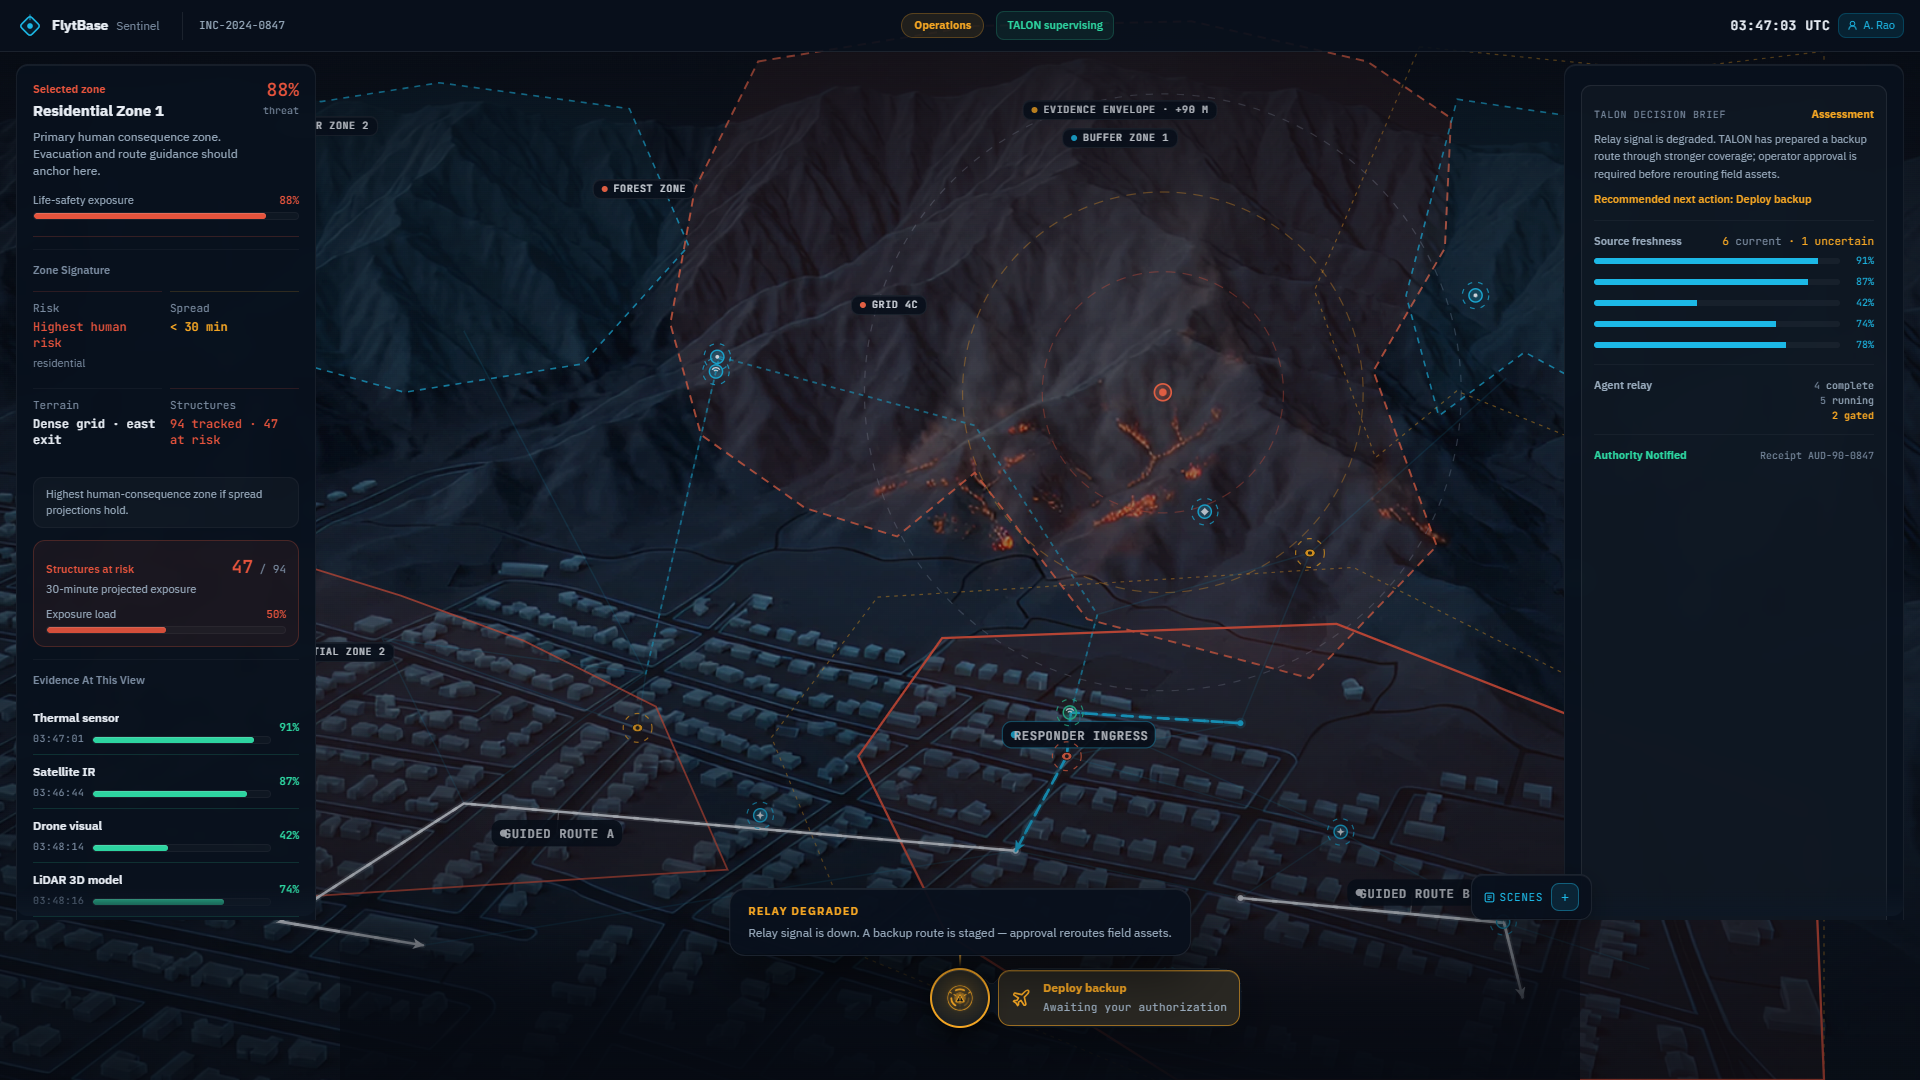
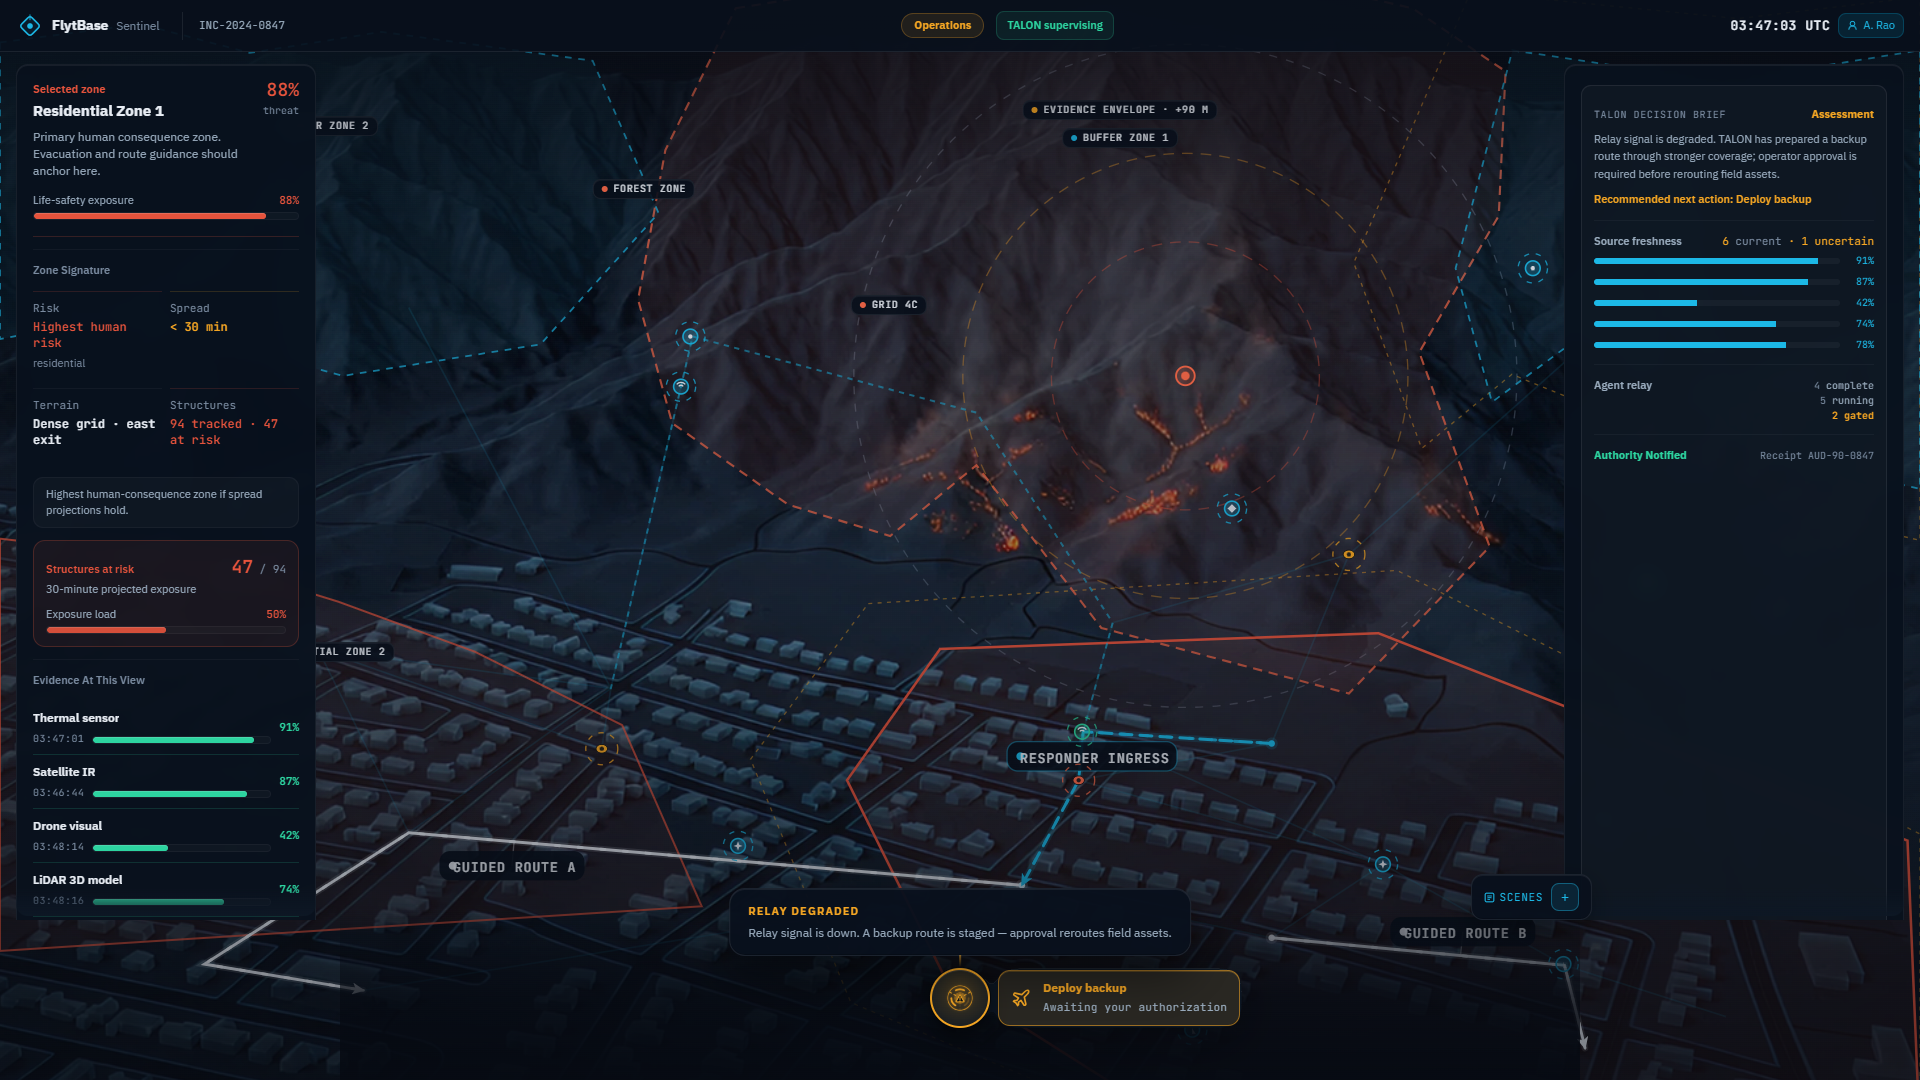
Map alignment fix (A+C): basemap rendered inside the SVG coordinate space (slice law shared by image, overlay, and pointer inverse); verify:map gains 3 alignment regression gates (6->9 checks). Zone/road/label drift at 16:9 eliminated by construction

diff --git a/src/app/map/SpatialMapCanvas.tsx b/src/app/map/SpatialMapCanvas.tsx
@@ -413,14 +413,24 @@ export function SpatialMapCanvas({
     });
   };
 
+  /*
+   * Screen → viewBox units under the SLICE mapping (the same law the backdrop
+   * and overlay SVGs render with): uniform scale = max(w/vw, h/vh), content
+   * centered, overflow cropped. The old stretch assumption silently displaced
+   * every pointer → map conversion whenever the container aspect differed from
+   * 1.6 — drag-to-snap landed in the wrong field.
+   */
   const pointerToNative = (clientX: number, clientY: number): { x: number; y: number } | null => {
     const svg = svgRef.current;
     if (!svg) return null;
     const rect = svg.getBoundingClientRect();
     if (rect.width === 0 || rect.height === 0) return null;
+    const svgScale = Math.max(rect.width / MAP_DISPLAY.width, rect.height / MAP_DISPLAY.height);
+    const svgOffX = (rect.width - MAP_DISPLAY.width * svgScale) / 2;
+    const svgOffY = (rect.height - MAP_DISPLAY.height * svgScale) / 2;
     const screen = {
-      x: ((clientX - rect.left) / rect.width) * MAP_DISPLAY.width,
-      y: ((clientY - rect.top) / rect.height) * MAP_DISPLAY.height,
+      x: (clientX - rect.left - svgOffX) / svgScale,
+      y: (clientY - rect.top - svgOffY) / svgScale,
     };
     const pixel = toPixel(fromScreen(screen));
     return { x: pixel.x, y: pixel.y };
@@ -601,22 +611,36 @@ export function SpatialMapCanvas({
       }}
       data-map-runtime="spatial-os"
     >
+      {/*
+        The basemap lives INSIDE the map's coordinate space: one viewBox, one
+        preserveAspectRatio ("slice", the SVG equivalent of cover) shared by the
+        backdrop and the overlay. Before this, the <img> scaled with objectFit
+        cover while the overlay scaled with meet — two laws in one container, so
+        zones/roads/labels drifted off the photo by up to 82px at 16:9 and up to
+        278px on the square pre-incident asset. Now every layer — image, zones,
+        roads, agents, labels, and pointer hit-testing — shares one mapping, and
+        alignment holds at every viewport by construction.
+      */}
       {!failedMap[activeMapSrc] ? (
-        <img
-          src={activeMapSrc}
-          alt=""
-          draggable={false}
-          onError={() => setFailedMap((f) => ({ ...f, [activeMapSrc]: true }))}
-          style={{
-            position: "absolute",
-            inset: 0,
-            width: "100%",
-            height: "100%",
-            objectFit: "cover",
-            filter: mapFilter,
-            pointerEvents: "none",
-          }}
-        />
+        <svg
+          viewBox={`0 0 ${MAP_DISPLAY.width} ${MAP_DISPLAY.height}`}
+          width="100%"
+          height="100%"
+          preserveAspectRatio="xMidYMid slice"
+          style={{ position: "absolute", inset: 0 }}
+          aria-hidden="true"
+        >
+          <image
+            href={activeMapSrc}
+            x={0}
+            y={0}
+            width={MAP_DISPLAY.width}
+            height={MAP_DISPLAY.height}
+            preserveAspectRatio="xMidYMid slice"
+            style={{ filter: mapFilter }}
+            onError={() => setFailedMap((f) => ({ ...f, [activeMapSrc]: true }))}
+          />
+        </svg>
       ) : (
         <div style={{ position: "absolute", inset: 0, background: T.bgMap }} />
       )}
@@ -656,6 +680,7 @@ export function SpatialMapCanvas({
         viewBox={`0 0 ${MAP_DISPLAY.width} ${MAP_DISPLAY.height}`}
         width="100%"
         height="100%"
+        preserveAspectRatio="xMidYMid slice"
         style={{ position: "absolute", inset: 0 }}
         onClick={() => onSelectEntity(null)}
         onPointerMove={handlePointerMove}

diff --git a/docs/portfolio-case-study/map-alignment-audit.md b/docs/portfolio-case-study/map-alignment-audit.md
@@ -1,0 +1,82 @@
+# Map System Audit — zone/image alignment inconsistency
+
+**Date:** 2026-09-03 · **Scope:** `src/app/map/` (frame, zones, roads, SpatialMapCanvas, render/*) against both basemap assets, measured live at 1280×800 / 1600×900 / 1920×1080.
+**Method:** read the full coordinate pipeline; parsed both basemap assets' real dimensions; computed the image (objectFit cover) vs overlay (SVG viewBox meet) on-screen positions of every zone center in a live browser at three viewports; visual walk of captures.
+
+---
+
+## Verdict
+
+**Your eye is right, and it's structural — not an authoring mistake.** The zone polygons were authored correctly against the overhaul basemap (1691×914, which matches `MAP_NATIVE` exactly). The misalignment is born at render time: **the basemap image and the SVG overlay are scaled by two different rules in the same container**, so the overlay drifts off the image by an amount that grows toward the frame edges — and becomes catastrophic in the four scenes that use the second basemap, which is a **1024×1024 square JPEG masquerading as a .png** with no authored relationship to the zone frame at all.
+
+Measured worst-case zone-center drift:
+
+| Scene class | Basemap | 1280×800 | 1600×900 | 1920×1080 |
+|---|---|---|---|---|
+| Post-verify (contain/rescue/verify/failures) | overhaul 1691×914 (1.85:1) | 4–**61px** | 5–**69px** | 6–**82px** |
+| Pre-verify (baseline, alert, investigation, **contested**) | preincident **1024×1024 (1:1)** | 14–**159px** | 47–**232px** | 56–**278px** |
+
+(0px drift would be perfect. For scale: a drone marker is ~28px wide.)
+
+---
+
+## Root cause 1 — three coordinate mappings, one container
+
+The container (the map fills the full viewport; rails float above it) is the same box for all three layers, but each layer converts "map space → screen" differently:
+
+| Layer | Code | Scaling rule |
+|---|---|---|
+| Basemap `<img>` | `SpatialMapCanvas.tsx:615` — `objectFit: "cover"` | **Cover**: scales to fill, **crops** overflow. Crop window depends on the container's aspect ratio. |
+| SVG overlay | `SpatialMapCanvas.tsx:654-658` — `viewBox="0 0 1440 900"`, **no `preserveAspectRatio`** → default `xMidYMid meet` | **Meet**: scales to fit, **letterboxes**. Never crops. |
+| Pointer input | `SpatialMapCanvas.tsx:422-423` — `(clientX-rect.left)/rect.width * 1440` | **Stretch**: assumes the viewBox fills the container edge-to-edge. |
+
+All three agree only when the container aspect is *exactly* 1.6:1 — true at 1280×800 and essentially never otherwise (the map fills the viewport, so it's 1.778 at 1600/1920, and changes again in any other window size).
+
+Concretely at 1600×900 (container 1.778):
+- The **image** (1.85) covers: crops ~33px total horizontally, fills 100% of container width.
+- The **SVG** (1.6) meets: renders at 90% of container width, letterboxing **80px of empty margin on each side**.
+- Net effect: the overlay is compressed ~11% horizontally relative to the image. Points near the frame center drift little (forest-north: 5–9px); points near the edges drift 47–82px (buffer-west, buffer-east, residential-west — exactly the corridor zones the operator interacts with).
+- **Pointer hit-testing adds a third error on top**: clicking where a marker appears selects a map location displaced by the same mismatch — drone drag-to-snap lands in the wrong place at any non-1.6 aspect.
+
+Ironically, the **archived legacy canvas had this right**: `map/_archive/MapBackground.tsx:73` uses `preserveAspectRatio="xMidYMid slice"` (the SVG equivalent of cover). The Spatial OS rebuild dropped it.
+
+## Root cause 2 — the pre-verify basemap is a different photograph with no frame
+
+`src/assets/map-preincident.png` is **not a PNG** — it's a **1024×1024 square JPEG** (signature `FF D8 FF E0`), shown in `baseline`, `alert-command`, `investigation-pending`, and `monitoring-contested` (`SpatialMapCanvas.tsx:202-206`).
+
+- The zone frame is authored against the 1691×914 overhaul image. The square photo has **no authored mapping** to that frame — normalizing it through `MAP_NATIVE` is geographically meaningless.
+- At 16:9 with `cover`, a square image scales to width and **crops 44% of its height** (224px top + 224px bottom at 1920). The visible strip is the middle 56% of the photo, while the overlay maps v∈[0,1] across the full container height.
+- Result: in pre-verify scenes the polygons describe a *different geography* than the photo — measured drift **128–278px**, with `forest-north`'s center mapping *off the top of the visible image* (img y = −17 to −21px at 1600/1920) and `residential-south` mapping below the bottom edge.
+- `monitoring-contested` — your case-study hero scene — is one of the affected four.
+
+## Root cause 3 — viewport-dependent alignment (the "works on my machine" trap)
+
+Because the map container is the full viewport, the effective aspect ratio changes per viewport (1.600 at 1280, 1.778 at 1600/1920). The same authored geometry therefore aligns differently on every screen — the polygons were presumably hand-nudged ("lightly re-centered for photo fit", `zones.ts:8`) at whatever size they were reviewed at, which locks the fit to that one size and guarantees drift at all others. Hand-nudging cannot fix a scaling-law mismatch; it can only move the error around.
+
+## Knock-on effects (same root cause, different symptoms)
+
+1. **Road graph / drone pathfollow** — `roads.ts` nodes go through the same `fromPixel` pipeline, so road-following drones are displaced from the *visible* roads by the same table above. In pre-verify scenes, a drone "flying the ingress road" is visually off-road by 100+px.
+2. **Zone envelope controls** — `ZONE ENVELOPE ±` expands/contracts in normalized space (`zones.ts:44-66`), so operator adjustments inherit the drift; the envelope edge and the polygon edge diverge from the terrain proportionally.
+3. **Labels** — zone/unit labels are positioned by the SVG mapping, so they sit up to ~80px from the features they name at 16:9 (e.g. `BUFFER ZONE 1` vs the corridor it labels).
+4. **Selection/hover** — `pointInPolygon` hit-tests run in normalized space and are correct *internally*; the perceived "I clicked the zone and nothing happened" comes from the pointer-mapping error (RC1), not the hit-test.
+5. **Why it survived every audit** — the baseline/pre-verify scenes are heavily darkened by the atmosphere layers (fog + vignette), which masks the square-image mismatch; the overhaul scenes fit near the center where reviewers look first; and 1280×800 (the portfolio embed size) is the *one* viewport where the SVG mapping is exact, so embed-mode screenshots looked fine while 1600/1920 live views drifted.
+
+## What is correct (don't touch)
+
+- The authoring pipeline itself: `parsePixelPolygon` → normalized u/v → SVG user units is internally consistent, and `sentinel-map-overhaul.png` is *exactly* 1691×914 — the polygons genuinely sit on the overhaul photo's features in SVG space.
+- `pointInPolygon`, `nearestZoneId`, `expandPolygon` math — all correct in normalized space.
+- Roads/zones/agents share one frame — the architecture is right; only the render mapping is broken.
+
+## Fix plan (in order of preference)
+
+**Fix A — one mapping to rule them all (recommended, ~15 lines).** Render the basemap *inside the SVG* as `<image href=… x=0 y=0 width=1440 height=900 preserveAspectRatio="xMidYMid slice" />` and delete the HTML `<img>` (keep the CSS filter by applying it to the SVG image). Then image, overlay, and pointer input all share the **slice/cover** law in one coordinate space: zones, roads, drones, labels, and click targets all land on the image at every viewport, permanently. Pointer mapping at `:422` already assumes fill and becomes correct automatically. Cost: the visible crop of the overhaul image at 16:9 (~2%) is identical to today's image behavior, so nothing that currently looks right changes.
+
+**Fix B — re-author or re-crop the pre-verify asset.** Even with Fix A, the square JPEG covers correctly but shows the *middle strip* of an unrelated photo. Either (a) crop the square to a 1691×914-equivalent window of the overhaul image (e.g. a pre-incident grade of the same scene — ideal for the story: same geography, pre-fire), or (b) author a separate MapFrame for it. (a) is strongly preferred — it also fixes the jarring image *swap* between pre-verify and verify scenes.
+
+**Fix C — regression gate.** Extend `verify:map` with an alignment check: load each scene, evaluate the cover-vs-overlay drift at the five zone centers (the measurement script `scripts/audit-map-alignment.mjs` already computes this), and fail if any drift exceeds a few px. This is what would have caught RC1 at build time.
+
+**Not the fix:** more hand-nudging of polygon coordinates. It can only re-center the error; it cannot reconcile two scaling laws.
+
+## Effort
+
+Fix A is a focused change in `SpatialMapCanvas.tsx` (img→SVG image, one attribute) plus re-capturing verification artifacts. Fix B is an asset task. Fix C is ~40 lines in `verify-map.mjs`. Together: half a day, and the map system's central claim — "one shared spatial truth" — becomes literally true at every viewport.
